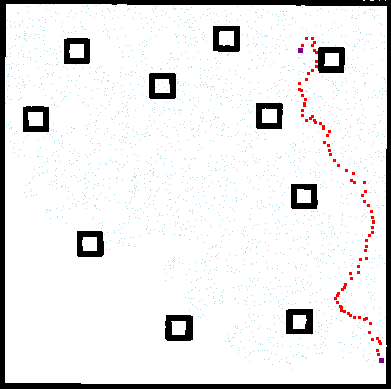
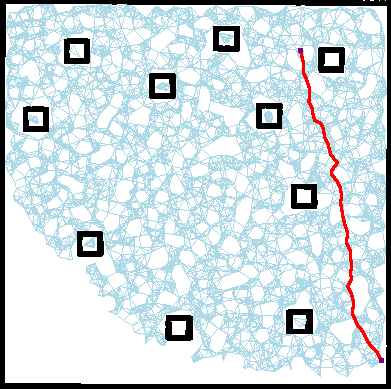
PRM algorithm supported by GUI and roadmap and path are now have connected points.

diff --git a/lib/path_planning/src/probability_roadmap.cpp b/lib/path_planning/src/probability_roadmap.cpp
@@ -113,13 +113,6 @@ void PROBABILITY_ROADMAP::solve(cell sp, cell ep, int timeout){
 }
 
 pair<vector<cell>, float> PROBABILITY_ROADMAP::reconstruct_path(pair<int, int> sp, pair<int, int> ep){
-    /*cout << parent.size() << endl;
-    for(auto n = parent.begin(); n != parent.end(); ++n){
-        cout << "(" << n->first.first << "," << n->first.second 
-             << ") -> (" << n->second.first << "," << n->second.second
-             << ")\n";
-    }
-    cout << "]\n";*/
     auto data = pair<vector<cell>, float>();
     if(sp != ep) data.first.push_back(ep);
     auto curr = ep;
@@ -148,18 +141,9 @@ cell PROBABILITY_ROADMAP::get_random_node(){
 bool PROBABILITY_ROADMAP::is_collision_free(cell c, cell d){
     auto line = Bresenham::connect_points(c, d);
     for(auto pt: line){
-        // Option 1
-        //for(auto o_pt: all_obstacle_nodes){
-        //    if(pt == o_pt) return false;
-        //}
-        // Option 2
         if(!tree.is_node_valid(pt)) return false;
     }
     return true;
-}
-
-vector<cell> PROBABILITY_ROADMAP::get_travelled_nodes(){
-    return travelled;
 }
 
 bool PROBABILITY_ROADMAP::not_in_set(vector<cell> open_set, cell p){
@@ -189,6 +173,40 @@ cell PROBABILITY_ROADMAP::get_min_f(vector<cell> &s){
 
 float PROBABILITY_ROADMAP::get_f_score(cell p){
     return dist[p];
+}
+
+vector<cell> PROBABILITY_ROADMAP::get_connected_path(vector<cell> path){
+    vector<cell> connected_path;
+    for(int i = 0; i < path.size()-1; i++){
+        connected_path.push_back(path[i]);
+        auto line = Bresenham::connect_points(path[i], path[i+1]);
+        for(int j = 1; j < line.size()-1; j++)
+            connected_path.push_back(line[j]);
+    }
+    connected_path.push_back(path[path.size()-1]);
+    return connected_path;
+}
+
+vector<cell> PROBABILITY_ROADMAP::get_travelled_nodes(){
+    return travelled;
+}
+
+vector<cell> PROBABILITY_ROADMAP::get_travelled_roadmap(){
+    auto travelled_nodes = PROBABILITY_ROADMAP::get_travelled_nodes();
+    set<cell> unique_nodes(travelled_nodes.begin(), travelled_nodes.end());
+    for(int i = 0; i < travelled_nodes.size(); i++){
+        auto neighbors = kd_tree[travelled_nodes[i]];
+        for(auto neighbor: neighbors){
+            if(unique_nodes.find(neighbor) != unique_nodes.end() && is_collision_free(travelled_nodes[i], neighbor)){
+                auto line = Bresenham::connect_points(travelled_nodes[i], neighbor);
+                unique_nodes.insert(line.begin(), line.end());
+            }
+        }
+    }
+    vector<cell> visited;
+    for(auto it = unique_nodes.begin(); it != unique_nodes.end(); ++it)
+        visited.push_back(cell{it->first, it->second});
+    return visited;
 }
 
 void PROBABILITY_ROADMAP::print_roadmap(){

diff --git a/tests/src/probability_roadmap_test.cpp b/tests/src/probability_roadmap_test.cpp
@@ -1,0 +1,79 @@
+#include <chrono>
+#include <gtest/gtest.h>
+
+#include "probability_roadmap.hpp"
+#include "time_helper.hpp"
+#include "common.hpp"
+
+/* 
+PRM (Using Simple Data)
+    Algorithm Completes
+    Path Generated between start and goal
+    Duration is <= 10 ms
+    Algorithm fails correctly with an insufficient number of sample nodes
+    Algorithm fails correctly with an insufficient number of neighbors
+*/
+
+using namespace testing;
+
+class PRM_Tests: public Test {
+    public:
+        float dist;
+        int duration;
+        vector<cell> path;
+
+    protected:
+        Map m = get_simple_map();
+        Graph g = MapData::get_graph_from_map(m);
+        const int DURATION_LIMIT = 10;
+        const float PATH_ERR_THRESH = 4;
+        const float DIST_LIMIT = 25;
+
+        void SetUp() override {
+            g.root = {3, 3};
+            g.end = {16, 7};
+            auto prm = PROBABILITY_ROADMAP(g, 20, 4);
+
+            auto start_time = TimeHelper::get_time("Start Time", false);
+            prm.solve(g.root, g.end, COMPUTE_TIMEOUT);
+            auto end_time = TimeHelper::get_time("End Time", false);
+            auto duration = duration_cast<milliseconds>(end_time- start_time);
+                
+            dist = std::numeric_limits<float>::infinity();
+            auto results = prm.reconstruct_path(g.root, g.end);
+            path = results.first;
+            dist = results.second;
+        }   
+};
+
+TEST_F(PRM_Tests, path_generated){
+    vector<cell> expected_path = {{3, 3}, {2, 6}, {4, 7}, {8, 7}, 
+                                  {12, 7}, {13, 5}, {16, 7}};
+    EXPECT_TRUE(checkPath(path, expected_path, PATH_ERR_THRESH));
+}
+
+TEST_F(PRM_Tests, check_distance){
+    EXPECT_TRUE(checkDistance(dist, DIST_LIMIT));
+}
+        
+TEST_F(PRM_Tests, speed_test){
+    EXPECT_TRUE(checkSpeed(duration, DURATION_LIMIT));
+}
+
+TEST_F(PRM_Tests, sample_count_too_smal){
+    auto short_prm = PROBABILITY_ROADMAP(g, 2, 4);
+    short_prm.solve(g.root, g.end, COMPUTE_TIMEOUT);
+    auto invalid_result = short_prm.reconstruct_path(g.root, g.end);
+    auto inv_path = invalid_result.first;
+    float inv_dist = invalid_result.second;
+    EXPECT_TRUE(inv_path.size() == 1 && inv_dist == std::numeric_limits<float>::infinity());
+}
+
+TEST_F(PRM_Tests, neighbor_count_too_smal){
+    auto short_prm = PROBABILITY_ROADMAP(g, 4, 1);
+    short_prm.solve(g.root, g.end, COMPUTE_TIMEOUT);
+    auto invalid_result = short_prm.reconstruct_path(g.root, g.end);
+    auto inv_path = invalid_result.first;
+    float inv_dist = invalid_result.second;
+    EXPECT_TRUE(inv_path.size() == 1 && inv_dist == std::numeric_limits<float>::infinity());
+}

diff --git a/app/src/pathworker.cpp b/app/src/pathworker.cpp
@@ -5,6 +5,7 @@
 #include "bfs.hpp"
 #include "a_star.hpp"
 #include "rrt_star.hpp"
+#include "probability_roadmap.hpp"
 
 PathWorker::PathWorker(QObject *parent)
     : QObject(parent)
@@ -55,8 +56,21 @@ void PathWorker::run_rrt_star(Graph g, int max_iters){
                           data.first, rrt.get_travelled_nodes(), data.second);
 }
 
+// PRM algorithm module
+void PathWorker::run_prm(Graph g, int sample_count, int neigbor_count){
+    auto prm = PROBABILITY_ROADMAP(g, sample_count, neigbor_count);
+    auto start_time = high_resolution_clock::now();
+    prm.solve(g.root, g.end, compute_timeout);
+    auto end_time = high_resolution_clock::now();
+    auto duration = duration_cast<milliseconds>(end_time-start_time);
+    if(duration.count() >= compute_timeout) timeout_occurred = true;
+    auto data = prm.reconstruct_path(g.root, g.end);
+    MapHelper::add_result(results, AppConstants::PRM_ID.toStdString(), duration.count(),
+                          prm.get_connected_path(data.first), prm.get_travelled_roadmap(), data.second);
+}
+
 // Compute path(s)
-void PathWorker::compute_path(QString algo_name, Graph g, int max_iters){
+void PathWorker::compute_path(QString algo_name, Graph g, int max_iters, int neighbor_count){
     results.clear();
     QString err_msg;
     auto time_converted = TimeHelper::convert_from_ms(compute_timeout);
@@ -82,6 +96,16 @@ void PathWorker::compute_path(QString algo_name, Graph g, int max_iters){
     }
     if(algo_name == AppConstants::RRT_STAR_ID || algo_name == AppConstants::ALL_ID){
         this->run_rrt_star(g, max_iters);
+        if(timeout_occurred){
+            err_msg += QString("   - RRT* Computation exceeded %1 %2\n").arg(time_converted.first).arg(time_converted.second.c_str());
+            timeout_occurred = false;
+        }
+        algos_finished++;
+        emit algo_progress(algos_finished);
+    }
+
+    if(algo_name == AppConstants::PRM_ID || algo_name == AppConstants::ALL_ID){
+        this->run_prm(g, max_iters, neighbor_count);
         if(timeout_occurred){
             err_msg += QString("   - RRT* Computation exceeded %1 %2\n").arg(time_converted.first).arg(time_converted.second.c_str());
             timeout_occurred = false;

diff --git a/app/src/mainwindow.cpp b/app/src/mainwindow.cpp
@@ -24,7 +24,8 @@ MainWindow::~MainWindow(){
 void MainWindow::initialize_window(){
     // Initialize combobox for algorithms
     QStringList algos_lst = {AppConstants::BFS_ID, AppConstants::A_STAR_ID, 
-                             AppConstants::RRT_STAR_ID, AppConstants::ALL_ID};
+                             AppConstants::RRT_STAR_ID, AppConstants::PRM_ID,
+                             AppConstants::ALL_ID};
     ui->cb_bx_algos->addItems(algos_lst);
     num_of_algos = algos_lst.size()-1;
 
@@ -323,7 +324,12 @@ void MainWindow::on_cb_bx_algos_currentTextChanged(const QString &name){
     if(name == AppConstants::RRT_STAR_ID || name == AppConstants::ALL_ID){
         ui->lbl_iterations->show();
         ui->sp_bx_iterations->show();
-    }else{
+    }else if(name == AppConstants::PRM_ID || name == AppConstants::PRM_ID){
+        ui->lbl_iterations->show();
+        ui->sp_bx_iterations->show();
+        // Add UI element for neighbors and step size 
+    }
+    else{
         ui->lbl_iterations->hide();
         ui->sp_bx_iterations->hide();
     }
@@ -398,7 +404,7 @@ void MainWindow::on_btn_run_algo_clicked(){
         p_worker = new PathWorker();
         p_worker->moveToThread(worker_thread);
         connect(worker_thread, &QThread::started, p_worker, [this]{
-            p_worker->compute_path(algo_name, graph, max_iters);
+            p_worker->compute_path(algo_name, graph, max_iters, neighbor_count);
         });
 
         // Set signal for MainWindow functions

diff --git a/scripts/rpp_viz_cli.cpp b/scripts/rpp_viz_cli.cpp
@@ -8,9 +8,9 @@
 #include "map_data.hpp"
 #include "bfs.hpp"
 #include "a_star.hpp"
-//#include "d_star_lite.hpp"
 #include "rrt_star.hpp"
 #include "probability_roadmap.hpp"
+//#include "d_star_lite.hpp"
 
 #include "time_helper.hpp"
 #include "map_helper.hpp"
@@ -273,6 +273,7 @@ void run_rrt_star(Map &m, Graph g, int sample_count, bool debug){
 }
 
 void run_prm(Map &m, Graph g, int sample_count, int neighbor_count, bool debug){
+    // Add prompt for updating step size
     cout << "PRM" << endl;
     auto prm = PROBABILITY_ROADMAP(g, sample_count, neighbor_count);
     
@@ -283,9 +284,9 @@ void run_prm(Map &m, Graph g, int sample_count, int neighbor_count, bool debug){
 
     vector<cell> path, travelled;
     auto results = prm.reconstruct_path(g.root, g.end);
-    path = results.first;
+    path = prm.get_connected_path(results.first);
     float dist = results.second;
-    travelled = prm.get_travelled_nodes();
+    travelled = prm.get_travelled_roadmap();
     AlgoResult ar = {ScriptConstants::PRM_ID, duration, path, travelled, dist};
     print_results(ar, debug, COMPUTE_TIMEOUT);
     show_map("PRM", m, g.root, g.end, path, travelled, debug);

diff --git a/app/include/pathworker.h b/app/include/pathworker.h
@@ -24,7 +24,7 @@ public:
     void send_timeout_error(QString& message);
 
 public slots:
-    void compute_path(QString algo_name, Graph g, int max_iters);
+    void compute_path(QString algo_name, Graph g, int max_iters, int neighbor_count);
 
 signals:
     void algo_progress(int completed);
@@ -35,6 +35,7 @@ private:
     void run_bfs(Graph g);
     void run_a_star(Graph g);
     void run_rrt_star(Graph g, int max_iters);
+    void run_prm(Graph g, int sample_count, int neighbor_cout);
 
     int compute_timeout = 600000;  // in milliseconds (10 minutes)
     bool timeout_occurred = false;

diff --git a/lib/path_planning/include/probability_roadmap.hpp b/lib/path_planning/include/probability_roadmap.hpp
@@ -15,7 +15,9 @@ class PROBABILITY_ROADMAP{
         void dijkstra(cell sp, cell ep, c_time_point start, int timeout);
         void solve(cell sp, cell ep, int timeout);
         pair<vector<cell>, float> reconstruct_path(pair<int, int> sp, pair<int, int> ep);
+        vector<cell> get_connected_path(vector<cell> path);
         vector<cell> get_travelled_nodes();
+        vector<cell> get_travelled_roadmap();
 
     private:
         void learn(cell sp, cell ep, c_time_point start, int timeout);

diff --git a/app/include/app_constants.h b/app/include/app_constants.h
@@ -25,6 +25,7 @@ class AppConstants {
         inline static const QString BFS_ID = "BFS";
         inline static const QString A_STAR_ID = "A*";
         inline static const QString RRT_STAR_ID = "RRT*";
+        inline static const QString PRM_ID = "PRM";
         inline static const QString ALL_ID = "All";
     
         // Map Constants

diff --git a/app/include/mainwindow.h b/app/include/mainwindow.h
@@ -76,6 +76,7 @@ private:
     bool path_computed = false;
     QString algo_name;
     int max_iters = 10000;
+    int neighbor_count = 4;
     cell start_pos = {-1,-1};
     cell goal_pos = {-1,-1};
     vector<AlgoResult> results;

diff --git a/README.md b/README.md
@@ -4,13 +4,13 @@ A testing ground for path planning strategies for ROS.
 ## Future Work
 - Release 0.1.1
     - Algorithms
-        - [ ] Probability Roadmap (CLI & GUI)
+        - [X] Probability Roadmap (CLI & GUI)
     - Bug Fixes/Optimizations
         - [X] Get eraser to scale with map scaling in graphics view
         - [X] Disable fullscreen
     - Testing
         - [X] Rewrite tests with GTest
-        - [ ] Test Probalility Roadmap (PRM)
+        - [X] Test Probalility Roadmap (PRM)
 - Release 0.2.0
     - Algorithms
         - [ ] D* Lite (CLI & GUI)
@@ -137,13 +137,14 @@ Script execution:
 - [A*](https://en.wikipedia.org/wiki/A*_search_algorithm)
 
     ![](/resources/graphics/A_star.png)
-    
+
 ### Sampling-Based Algorithms
 - [RRT* (graph-based implementation)](https://arxiv.org/pdf/1105.1186)
 
     ![](/resources/graphics/RRT_star.png)
 
 - [Probabiltiy Roadmap (PRM)](https://en.wikipedia.org/wiki/Probabilistic_roadmap)
+    
     ![](/resources/graphics/PRM.png)
 
 ### Other Algorithms
